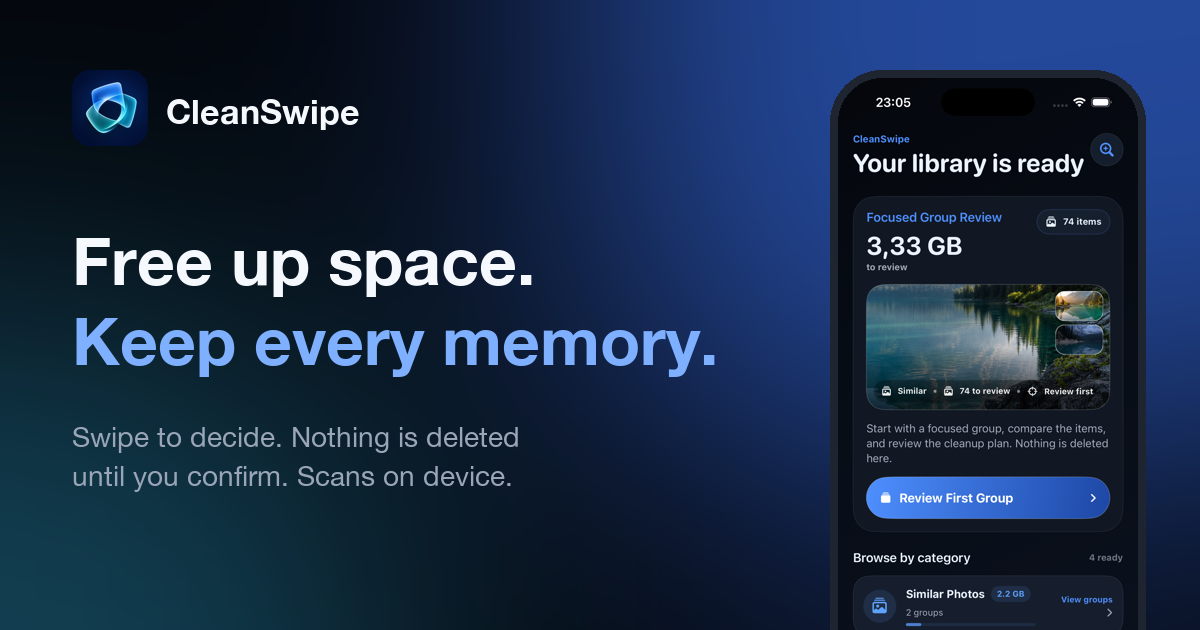
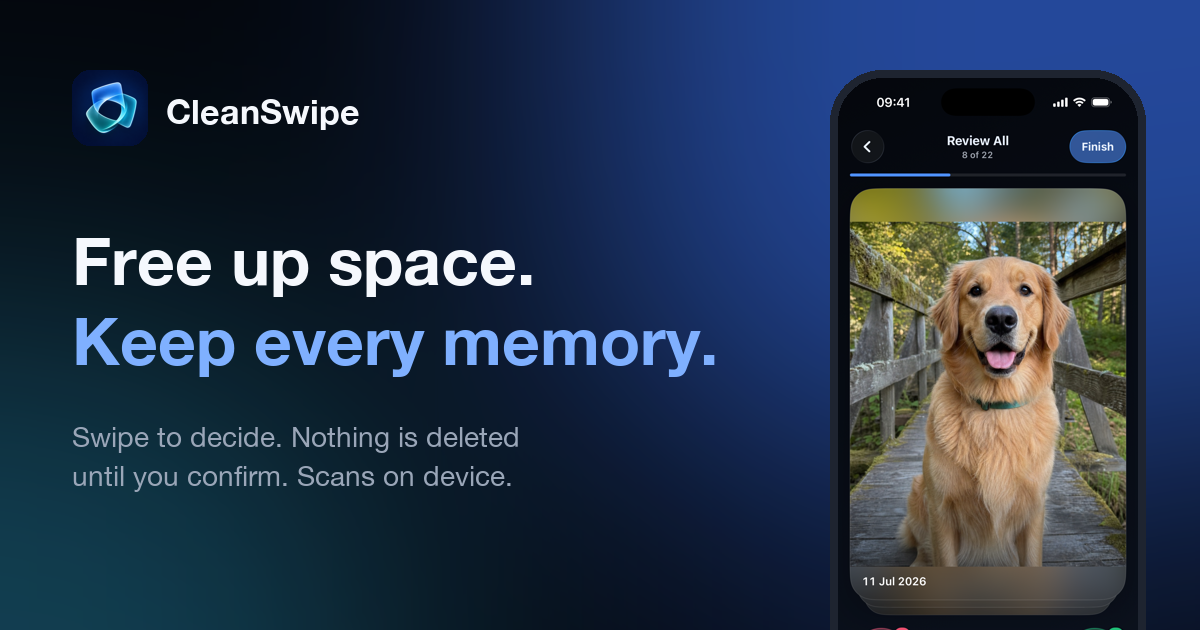
Refresh site with current app screenshots
Replace outdated screens with fresh iPhone 17 simulator captures of the
current build (Home, Library, Duplicates, Review, Review Summary), add a
duplicates/daily review showcase, and align copy with today's app.

Changed region(s): [[0.7092, 0.181, 0.9558, 1.0], [0.7092, 0.1508, 0.7708, 0.181], [0.8633, 0.1508, 0.8942, 0.181]]

diff --git a/index.html b/index.html
@@ -80,7 +80,7 @@
         <span class="eyebrow"><b>iPhone</b> Private photo cleaner</span>
         <h1>Free up space.<br><span class="grad">Keep every memory.</span></h1>
         <p class="lead">
-          CleanSwipe finds similar shots, duplicates, screenshots and large videos,
+          CleanSwipe finds similar shots, exact duplicates, blurry photos and clutter,
           then turns cleanup into a quick swipe review. You decide what stays —
           nothing is deleted until you confirm.
         </p>
@@ -100,9 +100,9 @@
         </ul>
 
         <div class="phones">
-          <div class="phone"><img src="/assets/img/screen-review.webp" alt="Swipe review screen: keep or mark a photo for cleanup" width="640" height="1391" loading="eager"></div>
-          <div class="phone"><img src="/assets/img/screen-dashboard.webp" alt="CleanSwipe home screen showing 3.33 GB ready to review" width="640" height="1391" loading="eager" fetchpriority="high"></div>
-          <div class="phone"><img src="/assets/img/screen-summary.webp" alt="Review summary with kept and marked counts before confirmation" width="640" height="1391" loading="eager"></div>
+          <div class="phone"><img src="/assets/img/screen-review.webp" alt="Review screen with Mark, Undo and Keep buttons" width="640" height="1391" loading="eager"></div>
+          <div class="phone"><img src="/assets/img/screen-home.webp" alt="CleanSwipe Home with Today's Review, exact duplicates and blurry photo suggestions" width="640" height="1391" loading="eager" fetchpriority="high"></div>
+          <div class="phone"><img src="/assets/img/screen-summary.webp" alt="Review Summary listing items selected to move to Recently Deleted" width="640" height="1391" loading="eager"></div>
 
           <div class="float-chip a" aria-hidden="true">
             <i><svg><use href="#i-shield"/></svg></i>
@@ -110,7 +110,7 @@
           </div>
           <div class="float-chip b" aria-hidden="true">
             <i><svg><use href="#i-sparkle"/></svg></i>
-            <div>Est. 1.1 GB<small>freed after you confirm</small></div>
+            <div>Today's Review<small>20 photos · about 3 min</small></div>
           </div>
         </div>
       </div>
@@ -127,11 +127,23 @@
         <ul class="finds reveal">
           <li><svg aria-hidden="true"><use href="#i-photos"/></svg>Similar photos</li>
           <li><svg aria-hidden="true"><use href="#i-copy"/></svg>Exact duplicates</li>
-          <li><svg aria-hidden="true"><use href="#i-screenshot"/></svg>Screenshots</li>
+          <li><svg aria-hidden="true"><use href="#i-screenshot"/></svg>Clutter &amp; screenshots</li>
           <li><svg aria-hidden="true"><use href="#i-blur"/></svg>Blurry shots</li>
-          <li><svg aria-hidden="true"><use href="#i-video"/></svg>Large videos</li>
-          <li><svg aria-hidden="true"><use href="#i-person"/></svg>People</li>
+          <li><svg aria-hidden="true"><use href="#i-video"/></svg>Videos</li>
+          <li><svg aria-hidden="true"><use href="#i-sparkle"/></svg>Daily review</li>
         </ul>
+        <div class="showcase reveal">
+          <div class="showcase-copy">
+            <h3>Exact duplicates, found for you.</h3>
+            <p>Copies are grouped side by side, so you can keep one and clear the rest in seconds. Similar shots, blurry photos and clutter get the same treatment.</p>
+            <h3 style="margin-top:34px">A few minutes a day.</h3>
+            <p>Today's Review on Home gives you a small daily set with a goal, so your library stays tidy without a big cleanup weekend.</p>
+          </div>
+          <div class="showcase-phones">
+            <div class="phone"><img src="/assets/img/screen-duplicates.webp" alt="Duplicates screen with groups of exact duplicate photos" width="640" height="1391" loading="lazy"></div>
+            <div class="phone"><img src="/assets/img/screen-home.webp" alt="Home screen with Today's Review" width="640" height="1391" loading="lazy"></div>
+          </div>
+        </div>
       </div>
     </section>
 
@@ -148,25 +160,25 @@
             <div class="step-copy">
               <span class="step-num">1</span>
               <h3>Scan locally</h3>
-              <p>CleanSwipe looks through your library on device and shows how much space you can get back.</p>
+              <p>Smart Cleanup sorts your library on device into Similar, Duplicates, Blurry and Clutter.</p>
             </div>
-            <div class="step-shot"><div class="phone"><img src="/assets/img/screen-groups.webp" alt="Review Groups screen listing photo groups by category" width="640" height="1391" loading="lazy"></div></div>
+            <div class="step-shot"><div class="phone"><img src="/assets/img/screen-library.webp" alt="Library screen with Smart Cleanup categories" width="640" height="1391" loading="lazy"></div></div>
           </article>
           <article class="step reveal">
             <div class="step-copy">
               <span class="step-num">2</span>
               <h3>Swipe to decide</h3>
-              <p>Right to keep, left to mark for cleanup. One group at a time, with undo whenever you need it.</p>
+              <p>Swipe right or tap Keep, swipe left or tap Mark. Undo is always one tap away.</p>
             </div>
-            <div class="step-shot"><div class="phone"><img src="/assets/img/screen-review.webp" alt="Swipe review of a single photo with Keep and Mark for cleanup buttons" width="640" height="1391" loading="lazy"></div></div>
+            <div class="step-shot"><div class="phone"><img src="/assets/img/screen-review.webp" alt="Review screen showing a photo with Mark, Undo and Keep buttons" width="640" height="1391" loading="lazy"></div></div>
           </article>
           <article class="step reveal">
             <div class="step-copy">
               <span class="step-num">3</span>
               <h3>Review &amp; confirm</h3>
-              <p>See everything you marked in one summary. Only your final confirmation moves photos.</p>
+              <p>Check your plan in one summary. Only your confirmation moves items to Recently Deleted.</p>
             </div>
-            <div class="step-shot"><div class="phone"><img src="/assets/img/screen-summary.webp" alt="Review Summary listing photos selected for cleanup" width="640" height="1391" loading="lazy"></div></div>
+            <div class="step-shot"><div class="phone"><img src="/assets/img/screen-summary.webp" alt="Review Summary with the items selected for cleanup" width="640" height="1391" loading="lazy"></div></div>
           </article>
         </div>
       </div>
@@ -195,7 +207,7 @@
           <article class="tile span-2 reveal">
             <span class="ico green"><svg><use href="#i-list"/></svg></span>
             <h3>Summary before cleanup</h3>
-            <p>See what you keep, what you marked and how much space you'll free — then decide.</p>
+            <p>See every item you marked, its estimated size and what you haven't reviewed yet — then decide.</p>
           </article>
           <article class="tile span-2 reveal">
             <span class="ico cyan"><svg><use href="#i-undo"/></svg></span>

diff --git a/marketing.html b/marketing.html
@@ -80,7 +80,7 @@
         <span class="eyebrow"><b>iPhone</b> Private photo cleaner</span>
         <h1>Free up space.<br><span class="grad">Keep every memory.</span></h1>
         <p class="lead">
-          CleanSwipe finds similar shots, duplicates, screenshots and large videos,
+          CleanSwipe finds similar shots, exact duplicates, blurry photos and clutter,
           then turns cleanup into a quick swipe review. You decide what stays —
           nothing is deleted until you confirm.
         </p>
@@ -100,9 +100,9 @@
         </ul>
 
         <div class="phones">
-          <div class="phone"><img src="/assets/img/screen-review.webp" alt="Swipe review screen: keep or mark a photo for cleanup" width="640" height="1391" loading="eager"></div>
-          <div class="phone"><img src="/assets/img/screen-dashboard.webp" alt="CleanSwipe home screen showing 3.33 GB ready to review" width="640" height="1391" loading="eager" fetchpriority="high"></div>
-          <div class="phone"><img src="/assets/img/screen-summary.webp" alt="Review summary with kept and marked counts before confirmation" width="640" height="1391" loading="eager"></div>
+          <div class="phone"><img src="/assets/img/screen-review.webp" alt="Review screen with Mark, Undo and Keep buttons" width="640" height="1391" loading="eager"></div>
+          <div class="phone"><img src="/assets/img/screen-home.webp" alt="CleanSwipe Home with Today's Review, exact duplicates and blurry photo suggestions" width="640" height="1391" loading="eager" fetchpriority="high"></div>
+          <div class="phone"><img src="/assets/img/screen-summary.webp" alt="Review Summary listing items selected to move to Recently Deleted" width="640" height="1391" loading="eager"></div>
 
           <div class="float-chip a" aria-hidden="true">
             <i><svg><use href="#i-shield"/></svg></i>
@@ -110,7 +110,7 @@
           </div>
           <div class="float-chip b" aria-hidden="true">
             <i><svg><use href="#i-sparkle"/></svg></i>
-            <div>Est. 1.1 GB<small>freed after you confirm</small></div>
+            <div>Today's Review<small>20 photos · about 3 min</small></div>
           </div>
         </div>
       </div>
@@ -127,11 +127,23 @@
         <ul class="finds reveal">
           <li><svg aria-hidden="true"><use href="#i-photos"/></svg>Similar photos</li>
           <li><svg aria-hidden="true"><use href="#i-copy"/></svg>Exact duplicates</li>
-          <li><svg aria-hidden="true"><use href="#i-screenshot"/></svg>Screenshots</li>
+          <li><svg aria-hidden="true"><use href="#i-screenshot"/></svg>Clutter &amp; screenshots</li>
           <li><svg aria-hidden="true"><use href="#i-blur"/></svg>Blurry shots</li>
-          <li><svg aria-hidden="true"><use href="#i-video"/></svg>Large videos</li>
-          <li><svg aria-hidden="true"><use href="#i-person"/></svg>People</li>
+          <li><svg aria-hidden="true"><use href="#i-video"/></svg>Videos</li>
+          <li><svg aria-hidden="true"><use href="#i-sparkle"/></svg>Daily review</li>
         </ul>
+        <div class="showcase reveal">
+          <div class="showcase-copy">
+            <h3>Exact duplicates, found for you.</h3>
+            <p>Copies are grouped side by side, so you can keep one and clear the rest in seconds. Similar shots, blurry photos and clutter get the same treatment.</p>
+            <h3 style="margin-top:34px">A few minutes a day.</h3>
+            <p>Today's Review on Home gives you a small daily set with a goal, so your library stays tidy without a big cleanup weekend.</p>
+          </div>
+          <div class="showcase-phones">
+            <div class="phone"><img src="/assets/img/screen-duplicates.webp" alt="Duplicates screen with groups of exact duplicate photos" width="640" height="1391" loading="lazy"></div>
+            <div class="phone"><img src="/assets/img/screen-home.webp" alt="Home screen with Today's Review" width="640" height="1391" loading="lazy"></div>
+          </div>
+        </div>
       </div>
     </section>
 
@@ -148,25 +160,25 @@
             <div class="step-copy">
               <span class="step-num">1</span>
               <h3>Scan locally</h3>
-              <p>CleanSwipe looks through your library on device and shows how much space you can get back.</p>
+              <p>Smart Cleanup sorts your library on device into Similar, Duplicates, Blurry and Clutter.</p>
             </div>
-            <div class="step-shot"><div class="phone"><img src="/assets/img/screen-groups.webp" alt="Review Groups screen listing photo groups by category" width="640" height="1391" loading="lazy"></div></div>
+            <div class="step-shot"><div class="phone"><img src="/assets/img/screen-library.webp" alt="Library screen with Smart Cleanup categories" width="640" height="1391" loading="lazy"></div></div>
           </article>
           <article class="step reveal">
             <div class="step-copy">
               <span class="step-num">2</span>
               <h3>Swipe to decide</h3>
-              <p>Right to keep, left to mark for cleanup. One group at a time, with undo whenever you need it.</p>
+              <p>Swipe right or tap Keep, swipe left or tap Mark. Undo is always one tap away.</p>
             </div>
-            <div class="step-shot"><div class="phone"><img src="/assets/img/screen-review.webp" alt="Swipe review of a single photo with Keep and Mark for cleanup buttons" width="640" height="1391" loading="lazy"></div></div>
+            <div class="step-shot"><div class="phone"><img src="/assets/img/screen-review.webp" alt="Review screen showing a photo with Mark, Undo and Keep buttons" width="640" height="1391" loading="lazy"></div></div>
           </article>
           <article class="step reveal">
             <div class="step-copy">
               <span class="step-num">3</span>
               <h3>Review &amp; confirm</h3>
-              <p>See everything you marked in one summary. Only your final confirmation moves photos.</p>
+              <p>Check your plan in one summary. Only your confirmation moves items to Recently Deleted.</p>
             </div>
-            <div class="step-shot"><div class="phone"><img src="/assets/img/screen-summary.webp" alt="Review Summary listing photos selected for cleanup" width="640" height="1391" loading="lazy"></div></div>
+            <div class="step-shot"><div class="phone"><img src="/assets/img/screen-summary.webp" alt="Review Summary with the items selected for cleanup" width="640" height="1391" loading="lazy"></div></div>
           </article>
         </div>
       </div>
@@ -195,7 +207,7 @@
           <article class="tile span-2 reveal">
             <span class="ico green"><svg><use href="#i-list"/></svg></span>
             <h3>Summary before cleanup</h3>
-            <p>See what you keep, what you marked and how much space you'll free — then decide.</p>
+            <p>See every item you marked, its estimated size and what you haven't reviewed yet — then decide.</p>
           </article>
           <article class="tile span-2 reveal">
             <span class="ico cyan"><svg><use href="#i-undo"/></svg></span>

diff --git a/assets/site.css b/assets/site.css
@@ -339,6 +339,38 @@ h1, h2, h3 { margin: 0; letter-spacing: -0.035em; line-height: 1.04; }
 }
 .finds svg { width: 20px; height: 20px; color: var(--blue-2); }
 
+
+/* ---------- Showcase ---------- */
+.showcase {
+  display: grid;
+  grid-template-columns: 1fr 1fr;
+  align-items: center;
+  gap: 50px;
+  margin-top: 70px;
+  padding: 56px;
+  border-radius: 40px;
+  border: 1px solid var(--stroke);
+  background:
+    radial-gradient(70% 90% at 100% 0%, rgba(169, 108, 242, 0.16), transparent 60%),
+    linear-gradient(180deg, rgba(255, 255, 255, 0.05), rgba(255, 255, 255, 0.015));
+  overflow: hidden;
+}
+.showcase-copy h3 { font-size: clamp(1.6rem, 3vw, 2.2rem); letter-spacing: -0.03em; line-height: 1.1; }
+.showcase-copy p { margin: 14px 0 0; color: var(--muted); font-size: 1.06rem; }
+.showcase-phones { display: flex; justify-content: center; gap: 18px; }
+.showcase-phones .phone { width: 220px; border-radius: 40px; padding: 8px; }
+.showcase-phones .phone img { border-radius: 33px; }
+.showcase-phones .phone:nth-child(2) { margin-top: 60px; }
+@media (max-width: 980px) {
+  .showcase { grid-template-columns: 1fr; padding: 36px 24px; }
+}
+@media (max-width: 720px) {
+  .showcase { border-radius: 30px; gap: 34px; margin-top: 48px; }
+  .showcase-phones .phone { width: 46%; max-width: 190px; border-radius: 30px; padding: 6px; }
+  .showcase-phones .phone img { border-radius: 25px; }
+  .showcase-phones .phone:nth-child(2) { margin-top: 40px; }
+}
+
 /* ---------- Steps ---------- */
 .steps { display: grid; gap: 22px; grid-template-columns: repeat(3, minmax(0, 1fr)); }
 .step {
